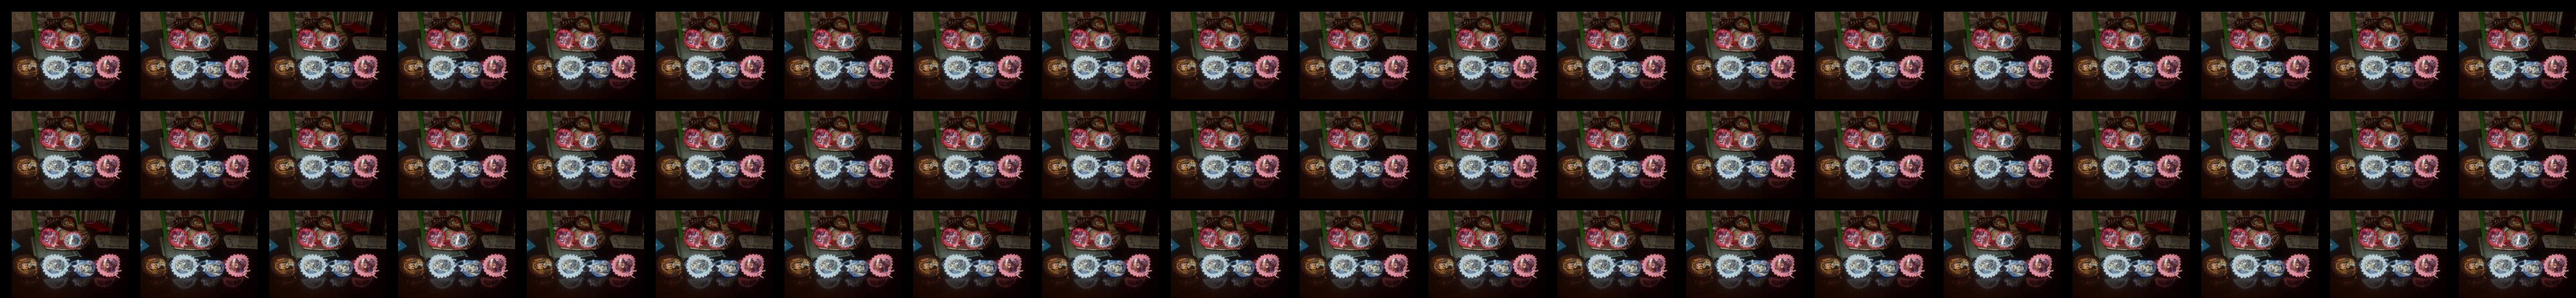
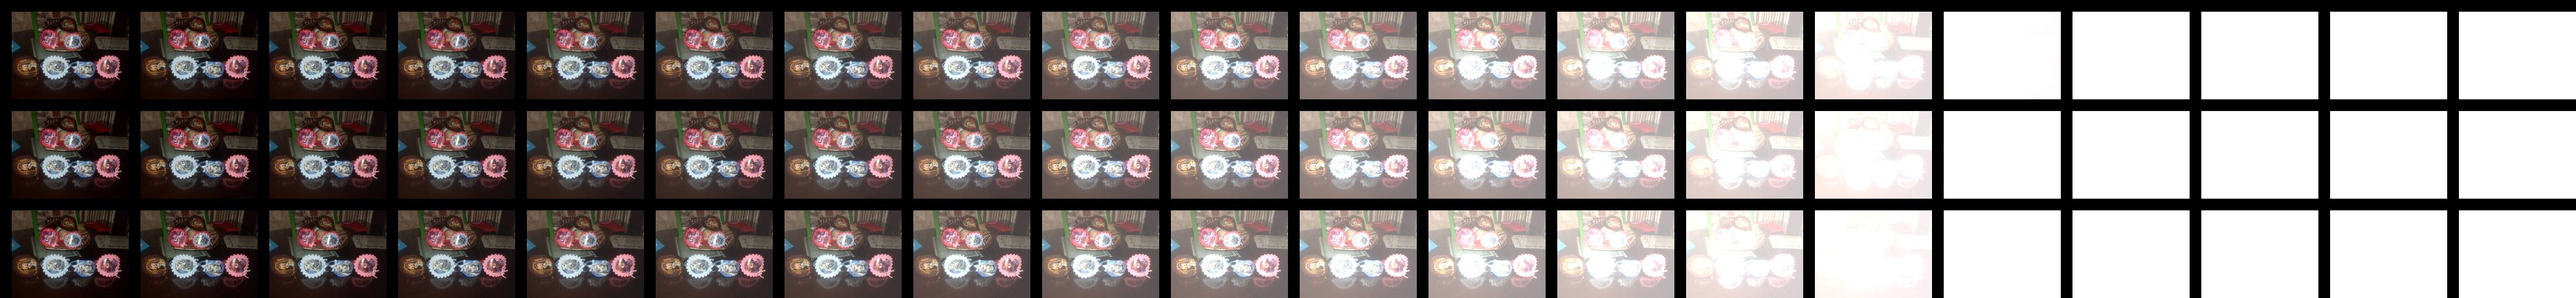
zoom on each photo

diff --git a/gallery.js b/gallery.js
@@ -1,4 +1,3 @@
-//TODO: perfeccionar que al soltar se quede siempre en la misma pos
 window.requestAnimFrame = (function(callback) {
         return window.requestAnimationFrame || window.webkitRequestAnimationFrame || window.mozRequestAnimationFrame || window.oRequestAnimationFrame || window.msRequestAnimationFrame ||
         function(callback) {
@@ -10,6 +9,7 @@ var my = {
 
     globalVars: {
 
+        canvas: document.getElementById('gallery'),
         projectionParameters: {
             win_width: 960,
             win_height:600,
@@ -18,7 +18,12 @@ var my = {
         },
         galleryImageSize: {
             width: 4400,
-            height: 510
+            height: 510,
+            pxBetweenPhotos: 20
+        },
+        imageSize: {
+            width: 200,
+            height: 150
         },
         vSlicesFactor: 0.095,
         centerOfTheLastColumn: 3600 / 2, // galleryImageSize.width / 2
@@ -305,6 +310,11 @@ var my = {
 
     functions: {
 
+        p: function(point) {
+            var p = my.globalVars.projectionParameters;
+            return point.project(p.win_width, p.win_height, p.fov, p.viewer_distance);
+        },
+
         testForPhone: function() {
             if( /Android|webOS|iPhone|iPad|iPod|BlackBerry/i.test(navigator.userAgent) ) {
             var detect = document.createElement('p');
@@ -314,6 +324,14 @@ var my = {
             my.globalVars.phone = true;
             my.globalVars.vSlicesFactor = 0.04;
             }
+        },
+
+        getMousePos: function (canvas, evt) {
+            var rect = canvas.getBoundingClientRect();
+            return {
+                x: evt.clientX - rect.left,
+                y: evt.clientY - rect.top
+            };
         },
 
         draw: {
@@ -391,14 +409,39 @@ var my = {
     //            }
             },
 
-            scene: function(animationData) {
+            scene: function(animationData, zoomData) {
                 var canvas = document.getElementById('gallery');
                 var context = canvas.getContext('2d');
+                var p = my.functions.p;
                 r = my.constructors.scene();
                 if (!my.currentData)
                     my.currentData = my.constructors.animationData(r, 1, 0.01);
                 o = my.currentData.o;
                 o.draw(context);
+                if (zoomData !== undefined) {
+                    var img = document.getElementById('cesta');
+                    sourceX = zoomData.column * my.globalVars.galleryImageSize.pxBetweenPhotos + 
+                            (zoomData.column - 1) * my.globalVars.imageSize.width;
+                    sourceY = zoomData.row * my.globalVars.galleryImageSize.pxBetweenPhotos +
+                            (zoomData.row - 1) * my.globalVars.imageSize.height;
+                    sourceWidth = my.globalVars.imageSize.width;
+                    sourceHeight = my.globalVars.imageSize.height;
+                    destAux = my.constructors.point3D(zoomData.x0, zoomData.y0, 0);
+                    //destX = p(destAux).x;
+                    //destY = p(destAux).y;
+                    destWidth = my.globalVars.imageSize.width * 1.3;
+                    destHeight = my.globalVars.imageSize.height * 1.3;
+                    destX = p(my.currentData.o.vertices[0]).x + (zoomData.column - 1) * (zoomData.wp + zoomData.pxp - zoomData.wp / 32);
+                    if (zoomData.row === 1)
+                        destY = p(my.currentData.o.vertices[0]).y + zoomData.pxp;
+                    else if (zoomData.row === 2)
+                        destY = p(my.currentData.o.vertices[0]).y + zoomData.pxp * 3 + zoomData.hp / 2;
+                    else if (zoomData.row === 3)
+                        destY = p(my.currentData.o.vertices[3]).y - destHeight;
+                    context.drawImage(
+                            img, sourceX, sourceY, sourceWidth, sourceHeight,
+                            destX, destY, destWidth, destHeight);
+                }
             }
         },
 
@@ -509,10 +552,10 @@ var my = {
                 my.functions.setBackground(that, 'white');
                 my.functions.animateOrWait('on', 'right');
             },
-            bre: function() {
+            bre: function(b) {
                 clearTimeout(my.globalVars.t);
                 var that = this;
-                my.functions.setBackground(that, '');
+                if (b) my.functions.setBackground(that, '');
                 my.currentData.onOff = 'off';
                 my.currentData.startTime = (new Date()).getTime();
                 my.functions.animate(my.currentData);
@@ -526,10 +569,10 @@ var my = {
                 my.functions.animateOrWait('on', 'left');
                 // console.log('hola');
             },
-            bre: function() {
+            bre: function(b) {
                 clearTimeout(my.globalVars.t);
                 var that = this;
-                my.functions.setBackground(that, '');
+                if (b) my.functions.setBackground(that, '');
                 my.currentData.onOff = 'off';
                 my.currentData.startTime = (new Date()).getTime();
                 my.functions.animate(my.currentData);
@@ -544,6 +587,60 @@ var my = {
                     my.globalVars.releasedLeft === true) {
                 my.handlers.turnRight.bre();
             }
+        },
+
+        enlargePhoto: function(evt) {
+            if (my.globalVars.releasedRight === false ||
+                    my.globalVars.releasedLeft === false) return;
+            var p = my.functions.p;
+            var mousePos = my.functions.getMousePos(canvas, evt);
+            var center = p(my.currentData.o.getCenter());
+            var px = my.globalVars.galleryImageSize.pxBetweenPhotos;
+            var galleryWidth = my.globalVars.galleryImageSize.width;
+            var w = my.globalVars.imageSize.width;
+            var o = my.constructors.point3D(0, 0, 0);
+            var aux = my.constructors.point3D(w, 0, 0);
+            var auxPx = my.constructors.point3D(px, 0, 0);
+            var auxGW = my.constructors.point3D(galleryWidth, 0, 0);
+            // The image width after project
+            var wp = p(aux).x - p(o).x;
+            var pxp = p(auxPx).x - p(o).x;
+            var galleryWidthP = p(auxGW).x - p(o).x;
+            xRange = [];
+            yRange = [];
+            var imageX = mousePos.x - p(my.currentData.o.vertices[0]).x;
+            var i = 1;
+            for (var x = pxp; x < galleryWidthP; x += (wp + pxp)) {
+                if (imageX > x && imageX < x + wp) {
+                    xRange = [x, x + wp];
+                    break;
+                }
+                i++;
+            }
+            var column = i;
+            y0 = p(my.currentData.o.vertices[0]).y;
+            y1 = p(my.currentData.o.vertices[3]).y;
+            deltaY = (y1 - y0 - 4 * pxp) / 3;
+            var hp = p(my.currentData.o.vertices[3]).y - p(my.currentData.o.vertices[0]).y;
+            var row = 0;
+            if (mousePos.y > y0 + pxp && mousePos.y < y0 + pxp + deltaY) {
+                yRange = [y0 + pxp, deltaY];
+                row = 1;
+            } else if (mousePos.y > y0 + deltaY + 3 * pxp && mousePos.y < y0 + 2 * deltaY + 3 * pxp) {
+                yRange = [y0 + deltaY + 3 * pxp, y0 + 2 * deltaY + 3 * pxp];
+                row = 2;
+            } else if (mousePos.y > y0 + 2 * deltaY + 4 * pxp && mousePos.y < y1) {
+                yRange = [y0 + 2 * deltaY + 4 * pxp, y1];
+                row = 3;
+            }
+            var zoomData = {row: row, column: column, x0: xRange[0], x1: xRange[1], y0: yRange[0], y1: yRange[1], mousePos: mousePos, wp: wp, hp: deltaY, pxp: pxp};
+            if (xRange !== undefined && yRange !== undefined) {
+                my.globalVars.canvas.width = my.globalVars.canvas.width;
+                my.functions.draw.scene(my.currentData, zoomData);
+            } else {
+                my.globalVars.canvas.width = my.globalVars.canvas.width;
+                my.functions.draw.scene(my.currentData);
+            }
         }
     }
 };
@@ -557,6 +654,7 @@ izq.onmouseover = my.handlers.turnLeft.acc;
 izq.onmouseout = my.handlers.turnLeft.bre;
 var canvas = document.getElementById('gallery');
 canvas.onmouseover = my.handlers.stop;
+      canvas.addEventListener('mousemove', my.handlers.enlargePhoto);
 window.onload = function() {
     my.functions.testForPhone();
     my.functions.draw.scene();

diff --git a/gallery.py b/gallery.py
@@ -1,7 +1,7 @@
 import Image
 
 #opens an image:
-im = Image.open("gallery.jpg")
+im = Image.open("l.jpg")
 #creates a new empty image, RGB mode, and size 400 by 400.
 new_im = Image.new('RGB', (4400,510))
 
@@ -11,7 +11,7 @@ im.thumbnail((200,150))
 for i in xrange(20,4400,220):
     for j in xrange(20,510,170):
         #I change brightness of the images, just to emphasise they are unique copies.
-        # im=Image.eval(im,lambda x: x+(i+j)/30)
+        im=Image.eval(im,lambda x: x+(i+j)/300)
         #paste the image at location i,j:
         new_im.paste(im, (i,j))
 
